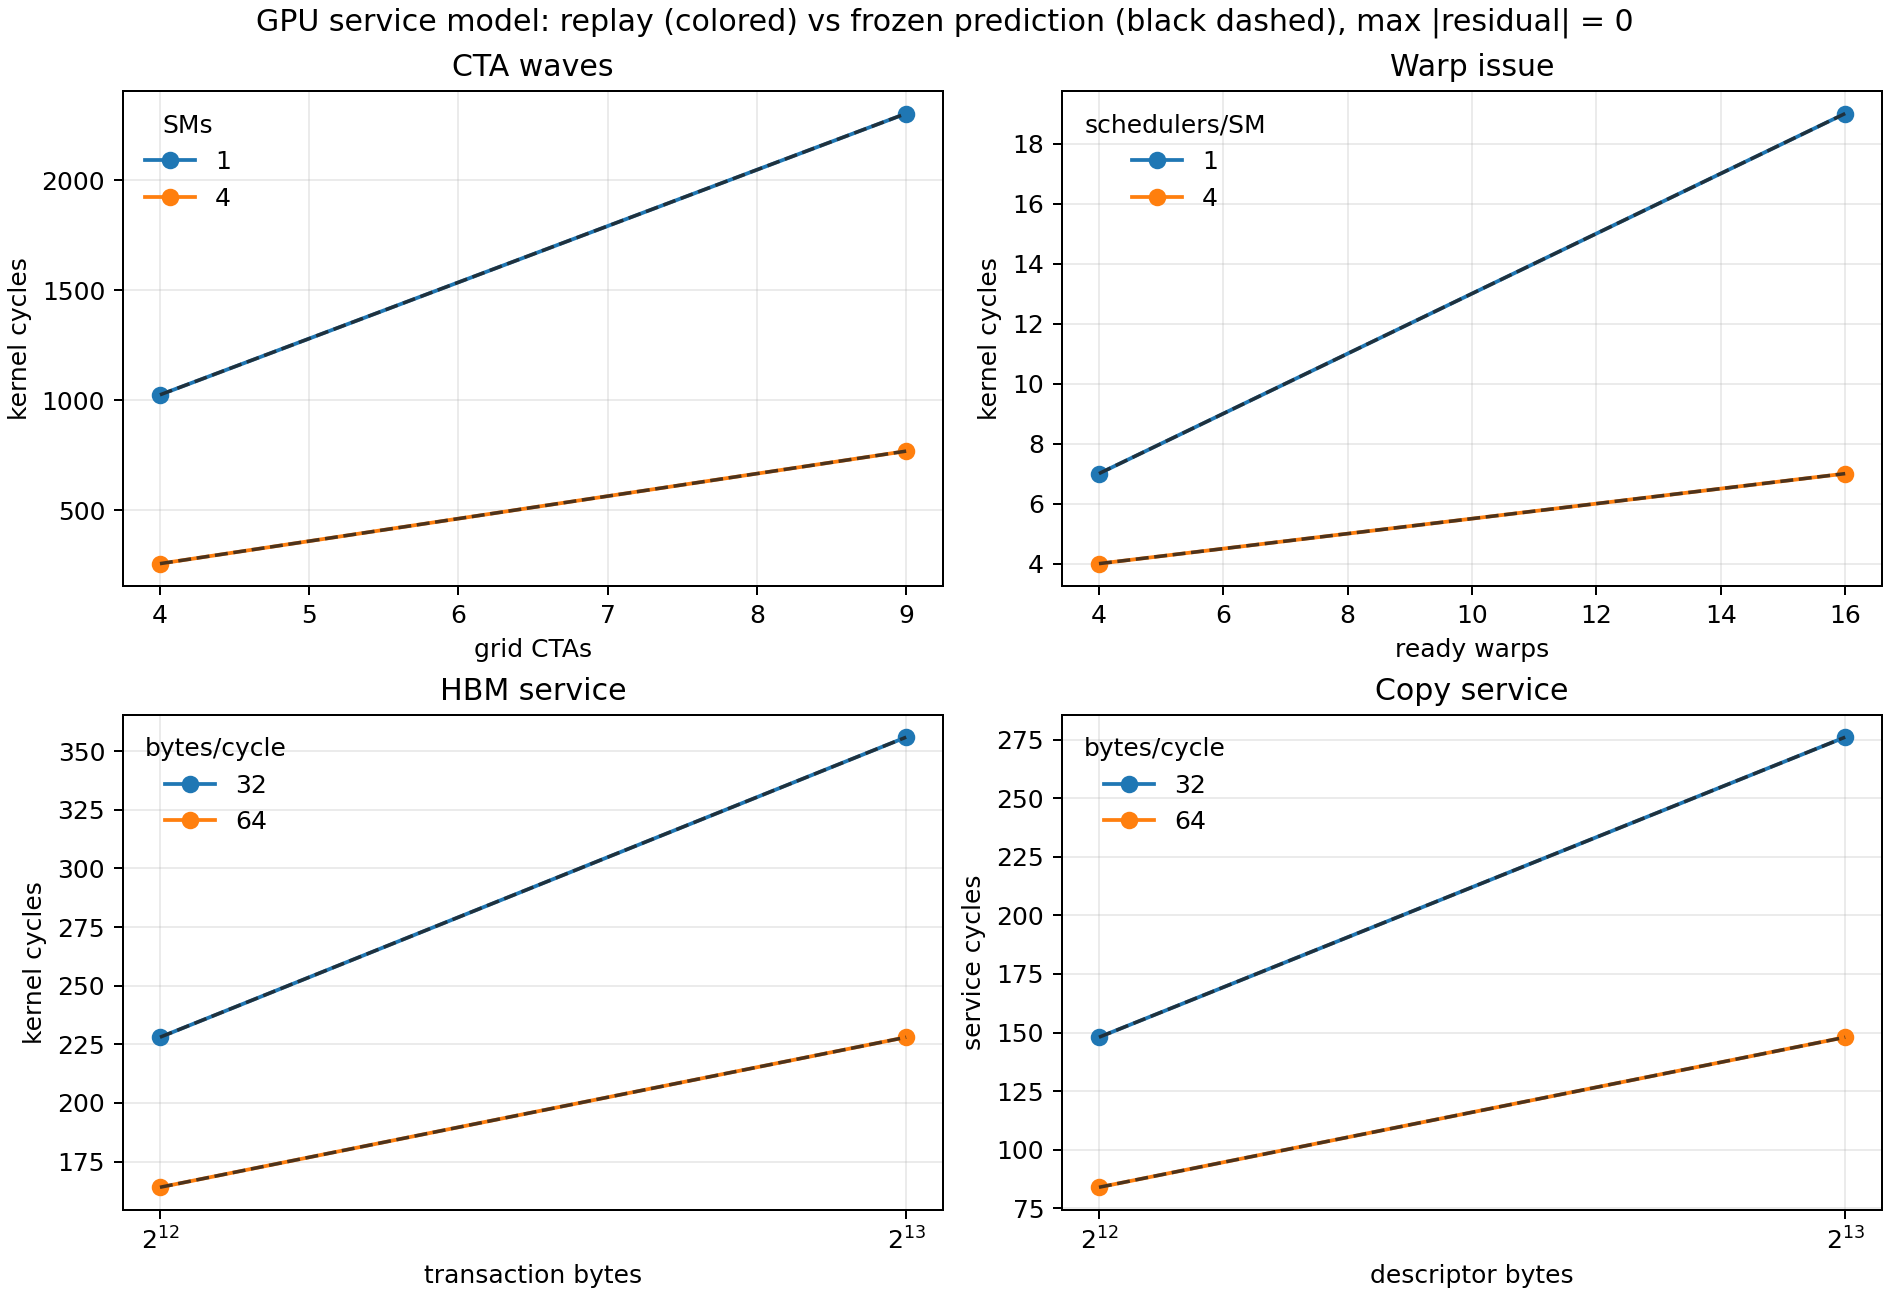
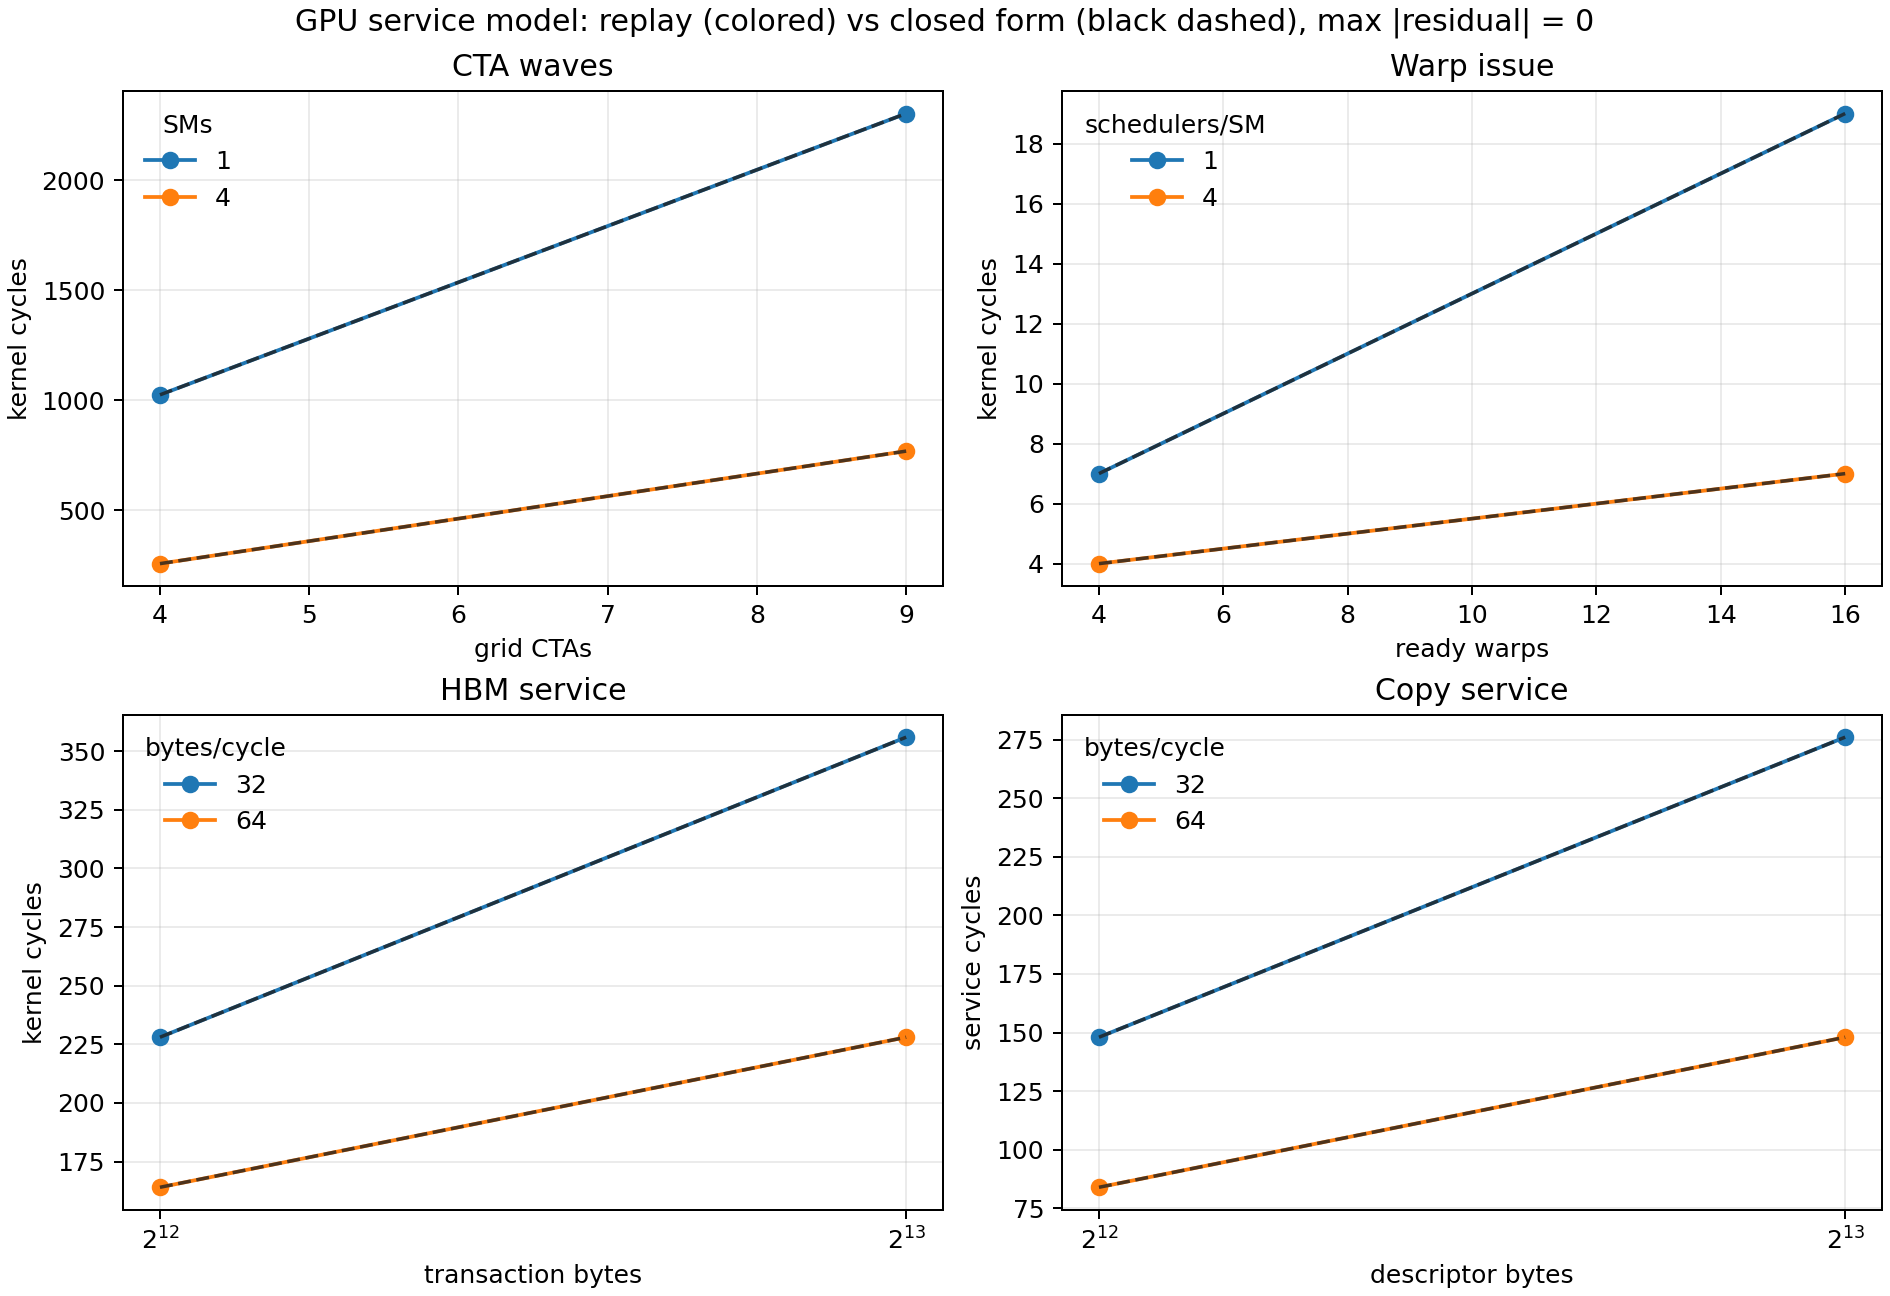
Correct GPU evidence chronology and task registry

Changed region(s): [[0.1249, 0.0, 0.8741, 0.0309]]

diff --git a/examples/gpu_service_model/plot_gpu_service_model.py b/examples/gpu_service_model/plot_gpu_service_model.py
@@ -1,5 +1,5 @@
 #!/usr/bin/env python3
-"""Render the pre-registered GPU service-model structural sweeps."""
+"""Render the post-specified GPU service-model structural sweeps."""
 
 from __future__ import annotations
 
@@ -65,7 +65,7 @@ def main() -> None:
 
     max_residual = max(abs(int(row["residual"])) for row in rows)
     fig.suptitle(
-        "GPU service model: replay (colored) vs frozen prediction (black dashed), "
+        "GPU service model: replay (colored) vs closed form (black dashed), "
         f"max |residual| = {max_residual}"
     )
     PLOTS.mkdir(exist_ok=True)

diff --git a/examples/gpu_service_model/run_gpu_service_model.py b/examples/gpu_service_model/run_gpu_service_model.py
@@ -1,5 +1,5 @@
 #!/usr/bin/env python3
-"""Run the frozen structural checks for the isolated GPU service model."""
+"""Run the post-specified structural checks for the isolated GPU service model."""
 
 from __future__ import annotations
 

diff --git a/docs/README.md b/docs/README.md
@@ -145,7 +145,7 @@ One line per module; the linked doc is the source of truth.
 |---|---|---|
 | [core](modules/core.md) | Implemented: virtual clock, step records, execution-graph/completion/result/bookkeeping contracts with strict JSON, serial lowerer, graph-only replay | CORE-3/4/5/6/7/8/9/10, BRIDGE-1 |
 | [workload](modules/workload.md) | Partial: Poisson/trace arrivals, fixed/lognormal/trace lengths | WORK-1 (shared prefixes), WORK-2 (bursty/MMPP) |
-| [compute](modules/compute.md) | Implemented: roofline + profile tables, kernel families, dense/MoE geometry, host initiation model, trace-driven GPU service primitive with concurrent compute/memory/NCCL scheduling and A100/H100 bootstrap profiles | COMP-1/2/4/5/6/7/8/9/10/11/12/13 |
+| [compute](modules/compute.md) | Implemented: roofline + profile tables, kernel families, dense/MoE geometry, host initiation model, trace-driven GPU service primitive with concurrent compute/memory/NCCL scheduling and A100/H100 bootstrap profiles | COMP-1/2/4/5/6/7/8/9/10/11/12/13/14 |
 | [placement](modules/placement.md) | Implemented: placement manifest round trip, declared placements, gpu-rank mapping, vLLM extraction; fabric manifest design-only | PLACE-1/2/3 |
 | [traffic](modules/traffic.md) | Implemented: collective patterns, TP step mapping, MoE all-to-all, GOAL renderers for steps and execution graphs | TRAF-2/3/4/5/6/7/8/9/10 |
 | [goal](modules/goal.md) | Implemented: GOAL trace + txt2bin helper | none |
@@ -171,7 +171,7 @@ Reproduce with
 | [dcqcn_vs_cn](../examples/dcqcn_vs_cn/RESULTS.md) | Mechanism-level scenarios: incast above/below buffer, ECMP collisions, cross-node TP ring | 18/20 checked rows pass; DCQCN collapses 2 to 3 orders of magnitude past the buffer, wins the buffer-absorbed cell (1.07 vs 1.68) and the path-disjoint ring |
 | [dcqcn_micro](../examples/dcqcn_micro/RESULTS.md) | NIC micro-behavior calibration: message-size law, incast fair share, join/exit convergence, repeated-WQE streams | Jain fairness 0.993 to 1.000; the timing-neutral WQ undershoots real-NIC anchors at 64 to 256 KB, now a BACK-9 WQ and BACK-16 PCIe-calibration target atop the landed BACK-10 fabric; persistent post-CNP rate state remains HTSIM-5; contended repeated-WQE collapse is reproduced to the derived digit |
 | [core2_lowering](../examples/core2_lowering/RESULTS.md) | Execution lowering, graph-only JSON replay and WQE bookkeeping | Legacy sink, graph replay and frozen closed form agree to 0 ps on all five rows (including the MoE sentinel); flow and WQE ledgers field-identical; backend WQE layer timing-neutral (344/344 backend tests) |
-| [gpu_service_model](../examples/gpu_service_model/RESULTS.md) | Isolated CTA/SM/warp scheduling, occupancy, HBM and direction-specific copy service, plus strict capture/replay artifacts | 22/22 frozen structural cells exact to zero cycles; A100/H100 timing remains an explicitly uncertain, unvalidated bootstrap |
+| [gpu_service_model](../examples/gpu_service_model/RESULTS.md) | Isolated CTA/SM/warp scheduling, occupancy, HBM and direction-specific copy service, plus strict capture/replay artifacts | 22/22 post-specified exact-oracle rows match to zero cycles; A100/H100 timing remains an explicitly uncertain, unvalidated bootstrap |
 | [gpu_task_mix](../examples/gpu_task_mix/RESULTS.md) | What limits a compute, a memory and an NCCL/NVLink kernel, and what two of them do to each other when scheduled together | 36/36 exact-oracle rows and 6/6 behavioral relation families over 17 instances pass; 21 structural invariants are unscored; the historical D2/D3 misses remain visible and their corrected shared-issue and residency families pass |
 | [rnic_wq_v1](../examples/rnic_wq_v1/RESULTS.md) | Native RNIC SQ/CQ structure, doorbell batching, signaling and network-credit backpressure | 11/11 post-specified cells exact; controlled SQ-full, drop and CQ-overrun boundaries pass in the native harness |
 | [rnic_pcie_v1](../examples/rnic_pcie_v1/RESULTS.md) | Shared PCIe transactions, finite credits/tags/buffers and deterministic analytical path penalties | 35/35 deterministic row oracles and 10/10 behavioral relation families over 18 instances pass; structural invariants are unscored, corrected link-queue accounting leaves JCT unchanged, and posted traffic fills the frozen blocked-read gap |

diff --git a/docs/modules/compute.md b/docs/modules/compute.md
@@ -267,7 +267,7 @@ tested. The service covers isolated-kernel replay, copy descriptors, the
 NVLink egress cursor, concurrent multi-task scheduling
 (`estimate_concurrent`) and the NCCL ring-collective builder. The
 [service-model study](../../examples/gpu_service_model/RESULTS.md) validates
-22 frozen mechanism cells to zero-cycle residual, and the
+22 post-specified exact-oracle rows to zero-cycle residual, and the
 [task-mix study](../../examples/gpu_task_mix/RESULTS.md) reports 36 passing
 exact-oracle rows and 6 passing behavioral relation families over 17
 instances. Its 21 structural invariants are unscored, and its two superseded
@@ -343,8 +343,8 @@ Strictly offline; the step loop never invokes a cycle-level simulator.
 
 ## Open tasks
 
-- COMP-1: run the offline SASS pipeline above and ship the first
-  populated per-family table (groundwork landed with M5: `step_kernels`,
+- COMP-1 (Precision; P1; L): run the offline SASS pipeline above and ship the
+  first populated per-family table (groundwork landed with M5: `step_kernels`,
   the table artifact and interpolation; the trace-driven service-model
   mechanisms and bootstrap profiles are also landed, but production capture,
   calibration and a populated table remain blocked on COMP-5).
@@ -390,16 +390,18 @@ Strictly offline; the step loop never invokes a cycle-level simulator.
   captures rather than the current synthetic profiles, and reconcile the
   intra-node split with TRAF-10 so one collective is never counted both
   here and on the fabric backend.
-- COMP-12 (Precision; P1; M): register the corrected mixed-makespan forms measured by the
-  [task-mix study](../../examples/gpu_task_mix/RESULTS.md). Findings G1
+- COMP-12 (Precision; P1; M): register the corrected mixed-makespan forms
+  measured by the [task-mix study](../../examples/gpu_task_mix/RESULTS.md).
+  Findings G1
   and G2 there show that a concurrent makespan is
   `max(isolated durations)` plus a submission-order issue delay, and that
   tasks whose CTAs exhaust an SM's shared memory serialize on residency
   instead of backfilling. Both need a pre-registered form of their own,
   including how the issue-order delay should behave once CORE-4 owns
   submission policy.
-- COMP-13 (Completeness; P1; M): extend `simllm-gpu-model-artifact-v2` with a narrow concurrent
-  replay record for `GpuTask` inputs and `GpuConcurrentEstimate` outputs,
+- COMP-13 (Completeness; P1; M): extend `simllm-gpu-model-artifact-v2` with a
+  narrow concurrent replay record for `GpuTask` inputs and
+  `GpuConcurrentEstimate` outputs,
   including task order, per-task admission/completion, requested and
   transacted HBM/NVLink bytes, request counts and deterministic replay
   validation. Until that record lands, concurrent demo CSVs are reviewed

diff --git a/examples/gpu_service_model/RESULTS.md b/examples/gpu_service_model/RESULTS.md
@@ -1,8 +1,11 @@
 # GPU service model: structural validation results
 
-The 2026-08-06 run passed all 22 pre-registered cells with zero residual.
-These are mechanism checks on a synthetic 1 GHz profile. They validate the
-event model's equations and boundaries, not A100 or H100 timing accuracy.
+The 2026-08-06 run passed all 22 post-specified exact-oracle rows with zero
+residual. The expectations, implementation, runner and first results all
+landed together in commit `12bfe8b`, so this study is regression evidence, not
+preregistration. These are mechanism checks on a synthetic 1 GHz profile. They
+validate the event model's equations and boundaries, not A100 or H100 timing
+accuracy.
 
 Reproduce from the repository root:
 
@@ -24,7 +27,7 @@ sweeps.
 
 ## Exact results
 
-| Check | Parameter A | Parameter B | replay | frozen | residual |
+| Check | Parameter A | Parameter B | replay | closed form | residual |
 |---|---:|---:|---:|---:|---:|
 | CTA waves | 4 CTAs | 1 SM | 1,024 cycles | 1,024 | 0 |
 | CTA waves | 4 CTAs | 4 SMs | 256 cycles | 256 | 0 |
@@ -124,7 +127,7 @@ byte-identically after the change.
 
 ### By-construction disclosures, 2026-08-06
 
-Three registered clauses carry no evidential weight as experiments and
+Three post-specified clauses carry no evidential weight as experiments and
 survive only as regression tripwires, following the precedent set in
 [examples/m4](../m4/RESULTS.md):
 
@@ -132,8 +135,8 @@ survive only as regression tripwires, following the precedent set in
   bandwidth" clause is true by arithmetic: duration is
   `setup + ceil(bytes / rate)`, which is at least `bytes / rate`, so the
   assertion cannot fail for any input. Its companion clause, that
-  throughput must rise with descriptor size, was registered but was not
-  enforced by the harness until 2026-08-06; it is now a real
+  throughput must rise with descriptor size, was specified but was not
+  enforced by the initial harness; it is now a real
   cross-case assertion and it passes.
 - The HBM check's "serviced bytes equal submitted bytes" identity holds
   by assignment: the estimate sets `hbm_serviced_bytes` from

diff --git a/docs/architecture.md b/docs/architecture.md
@@ -464,7 +464,7 @@ attributed held-out residual selects the next fidelity improvement.
 The first trace-driven GPU slice validates mechanisms before claiming device
 accuracy. Exact synthetic fixtures cover partial CTA waves, scheduler width,
 dependency chains, occupancy minima, HBM latency plus serialization, and
-copy-descriptor setup plus bandwidth. The frozen study is
+copy-descriptor setup plus bandwidth. The post-specified regression study is
 [examples/gpu_service_model](../examples/gpu_service_model/expectations.md).
 It varies at least two parameters in every component sweep and requires zero
 cycle residual for the closed forms.
@@ -479,8 +479,8 @@ cannot use. A collective is therefore an ordinary kernel here, built by
 it contends for the same GPU as the work it overlaps with rather than
 being priced alone. The intra-node NVLink path deliberately stays inside
 this model instead of reaching the fabric backend, which is the split
-TRAF-10 owns; only inter-node segments become GOAL traffic. The frozen
-study is [examples/gpu_task_mix](../examples/gpu_task_mix/expectations.md),
+TRAF-10 owns; only inter-node segments become GOAL traffic. The post-specified
+regression study is [examples/gpu_task_mix](../examples/gpu_task_mix/expectations.md),
 and COMP-11 owns peer topology, ingress service and reduction lanes. The
 primitive does not select runnable graph operations; CORE-4 still owns that
 DeviceRuntime policy and dispatch.

diff --git a/docs/modules/placement.md b/docs/modules/placement.md
@@ -47,15 +47,17 @@ selection are design-only.
 
 ## Open tasks
 
-- PLACE-1: fabric topology schema contents and general NIC selection in the
-  mapper, sourcing intra-node structure from NCCL topology dumps. This is
+- PLACE-1 (Completeness; P2; L): fabric topology schema contents and general
+  NIC selection in the mapper, sourcing intra-node structure from NCCL
+  topology dumps. This is
   explicitly deferred until after CORE-4 validates the first fixed resource
   profile: eight GPUs per node, one WQE submission queue or QP per GPU, all
   eight feeding their GPU-affine 400G RNICs, with intra-node transfers on an
   NVLink-class path. The fixed rail profile does not need general inventory
   discovery.
-- PLACE-2: `unique-nic` GOAL-rank mapping (depends on PLACE-1). Also deferred
-  behind the fixed eight-GPU, eight-RNIC profile; `gpu-rank` and `unique-nic`
+- PLACE-2 (Completeness; P2; M): `unique-nic` GOAL-rank mapping (depends on
+  PLACE-1). Also deferred behind the fixed eight-GPU, eight-RNIC profile;
+  `gpu-rank` and `unique-nic`
   happen to have the same cardinality there, but the general mapper must not
   assume that affinity.
 - PLACE-3: expert-parallel group memberships and declared expert ownership

diff --git a/docs/modules/adapters-vllm.md b/docs/modules/adapters-vllm.md
@@ -158,10 +158,11 @@ row-for-row.
 
 - VLLM-3: sim-native metrics export via a `vllm.stat_logger_plugins` stat
   logger for virtual-time runs.
-- VLLM-4 (remaining half): a paced-mode run whose TTFT/TPOT are compared
-  with a real capture, a `vllm serve` run confirming the drain record lands
-  under the `EngineCore` busy loop (source-verified only; the in-process
-  loop is confirmed to never issue it), and the scheduler-side invariants
+- VLLM-4 (Precision; P1; L) (remaining half): a paced-mode run whose TTFT/TPOT
+  are compared with a real capture, a `vllm serve` run confirming the drain
+  record lands under the `EngineCore` busy loop (source-verified only; the
+  in-process loop is confirmed to never issue it), and the scheduler-side
+  invariants
   under the fabricated executor: prefix-cache hit accounting with shared
   prefixes longer than one KV block (the 2026-08-04 smoke's shared prefix
   was shorter than the 16-token block, so hits were legitimately zero), and

diff --git a/examples/gpu_service_model/expectations.md b/examples/gpu_service_model/expectations.md
@@ -1,9 +1,11 @@
-# GPU service model: pre-registered expectations
+# GPU service model: post-specified regression expectations
 
-Written and frozen on 2026-08-06 before implementation and before the first
-model run. The exact checks use a synthetic 1 GHz GPU, so one cycle is exactly
-1,000 ps. Kernel launch overhead is zero. These checks validate mechanisms,
-not A100/H100 timing accuracy.
+This file, the initial implementation, the runner and the first results were
+added together in commit `12bfe8b` on 2026-08-06. There is no earlier public
+expectations-only ancestor, so these checks are post-specified regression
+expectations, not preregistration. They use a synthetic 1 GHz GPU, so one cycle
+is exactly 1,000 ps. Kernel launch overhead is zero. These checks validate
+mechanisms, not A100/H100 timing accuracy.
 
 ## Boundary under test
 

diff --git a/docs/modules/adapters-sglang.md b/docs/modules/adapters-sglang.md
@@ -119,8 +119,9 @@ sink seam is the same contract but has not driven htsim live yet (SGL-8).
 
 - SGL-3: RadixCache-aware studies: prefix-hit rate and re-prefill traffic
   vs shared-prefix workload structure.
-- SGL-4 (remaining half): a paced-mode run checked against SGLang's own
-  wall-clock metrics, a workload that actually exercises radix hits
+- SGL-4 (Precision; P1; L) (remaining half): a paced-mode run checked against
+  SGLang's own wall-clock metrics, a workload that actually exercises radix
+  hits
   (repeated shared prefixes) and retraction under KV pressure, and a
   `launch_server` (HTTP) run in addition to the offline `Engine` smoke. Run
   after the calibrated compute table and CORE-3/4/5, using the same commit,
